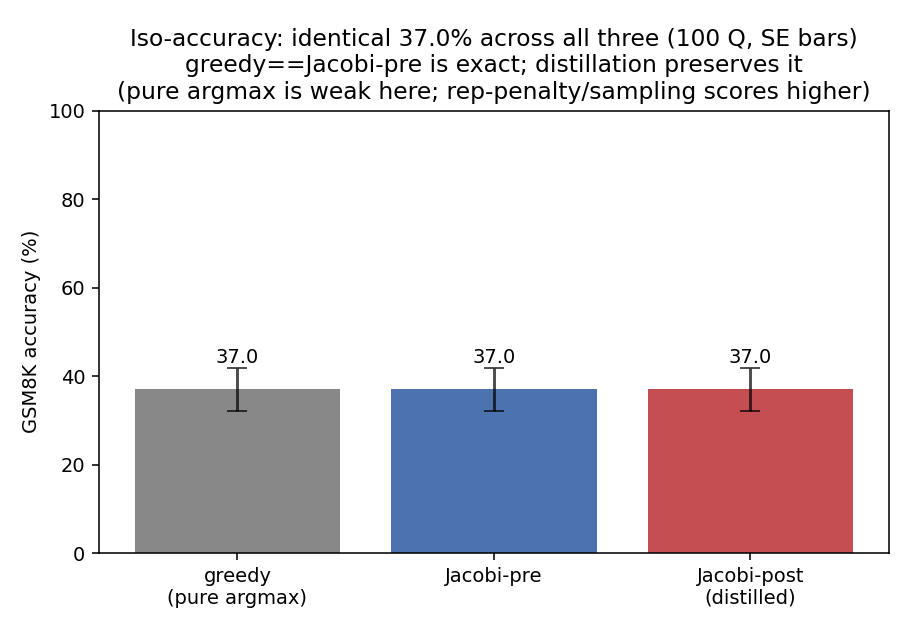
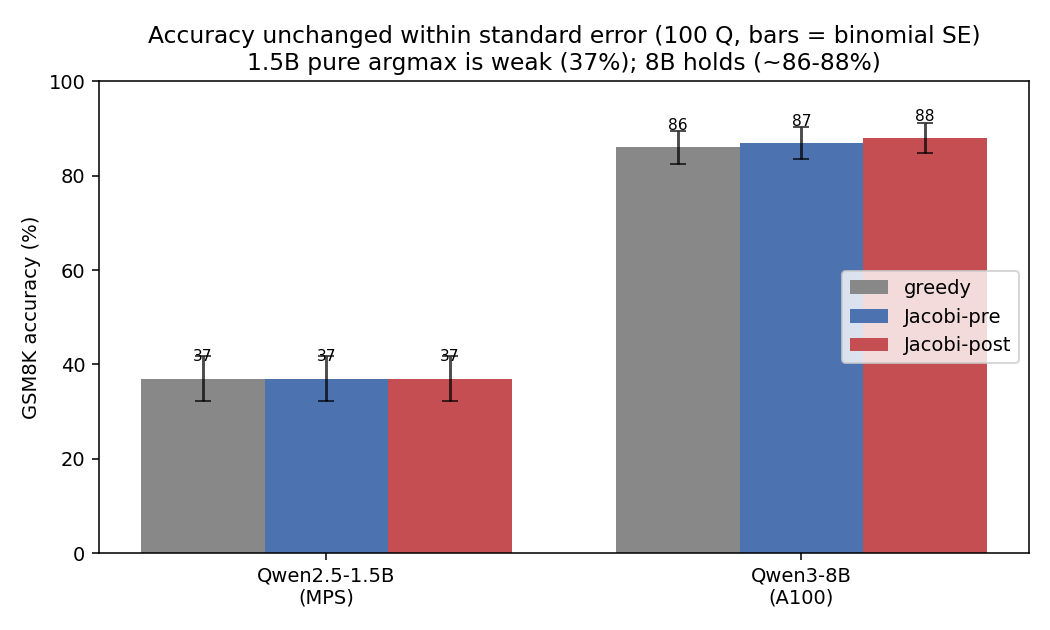
Fold in clean 8B (A100) results; both scales now corrected
Replaces the V100-confounded 8B accuracy with a clean pure-argmax A100 run
(single GPU, no sharding), captured via RunPod since the DGX went offline.

8B (100 Q, pure-argmax, cached, fp16): greedy 86.0%/1.000/27.05tps,
Jacobi-pre 87.0%/0.954/26.81tps, Jacobi-post 88.0%/0.764/31.79tps.
Greedy-equivalence 8/8 100% in fp32 (holds at 8B too).
=> iso-accuracy within SE, ~24% fewer forwards (matches 1.5B's 0.759),
   1.18x wall-clock (vs 1.10x at 1.5B/MPS).

8B pure-argmax (86%) == original rep-penalty (86%): the big model doesn't
degenerate, so its accuracy was never really confounded (only 1.5B was).

RESULTS.md, plots (both scales now), and memory updated.

diff --git a/cllm/results/make_plots.py b/cllm/results/make_plots.py
@@ -1,17 +1,20 @@
 """
 Generate result plots for the CLLM Jacobi-distillation experiments.
 
-Uses the CORRECTED, verified numbers (pure-argmax greedy baseline; cached decoder;
-length-matched). The earlier V100 three-way runs used HF generate() with Qwen's
-default repetition_penalty=1.1, which made the greedy *accuracy* baseline an unfair
-comparison -- those accuracy numbers are superseded here. Forward-pass counts are
-intrinsic to Jacobi and unaffected.
+CORRECTED, verified numbers (pure-argmax greedy baseline; cached decoder;
+length-matched). Both scales are clean now:
+  - Qwen2.5-1.5B: local M2/MPS run (/tmp/3way.log + /tmp/post.log)
+  - Qwen3-8B:     RunPod A100 run (cllm/results/run_8b_runpod.log)
+
+The earlier V100 three-way runs used HF generate() with Qwen's default
+repetition_penalty=1.1, making the greedy *accuracy* baseline unfair -- superseded
+here. Forward-pass counts are intrinsic to Jacobi and unaffected.
 
 Plots:
-  1. greedy-equivalence (token agreement)   -> proves Jacobi == greedy
-  2. corrected 1.5B three-way fwd_per_token  -> ~24% reduction at iso-accuracy
-  3. corrected 1.5B accuracy (SE bars)       -> identical 37% across decoders
-  4. wall-clock tokens/sec (MPS, clean)      -> 1.10x; V100 1.54x noted in caption
+  1. greedy-equivalence (token agreement)    -> Jacobi == greedy (fp32 exact, both scales)
+  2. fwd_per_token, both scales              -> ~24% reduction at iso-accuracy
+  3. accuracy, both scales (SE bars)         -> unchanged within standard error
+  4. wall-clock tokens/sec, both scales      -> 1.10x (1.5B/MPS), 1.18x (8B/A100)
   5. training loss (global term)             -> monotone learning signal
 
 Run: python cllm/results/make_plots.py
@@ -27,29 +30,27 @@ HERE = os.path.dirname(os.path.abspath(__file__))
 OUT = os.path.join(HERE, "plots")
 os.makedirs(OUT, exist_ok=True)
 
-# ----------------------------------------------------------------------------
-# CORRECTED 1.5B three-way (100 Q, 256 tok, PURE-argmax greedy, cached decoder,
-# fp16, MPS). Source: /tmp/3way.log + /tmp/post.log (local re-run after the
-# repetition_penalty fix). N=100.
-# ----------------------------------------------------------------------------
-THREEWAY = {  # decoder -> (accuracy, fwd_per_token, tok_per_sec)
-    "greedy\n(pure argmax)": (0.37, 1.000, 24.80),
-    "Jacobi-pre":            (0.37, 0.952, 22.76),
-    "Jacobi-post\n(distilled)": (0.37, 0.7593, 27.24),
+# decoder -> (accuracy, fwd_per_token, tok_per_sec).  N=100 questions each.
+THREEWAY = {
+    "Qwen2.5-1.5B\n(MPS)": {
+        "greedy":      (0.37, 1.000, 24.80),
+        "Jacobi-pre":  (0.37, 0.952, 22.76),
+        "Jacobi-post": (0.37, 0.7593, 27.24),
+    },
+    "Qwen3-8B\n(A100)": {
+        "greedy":      (0.86, 1.000, 27.05),
+        "Jacobi-pre":  (0.87, 0.9545, 26.81),
+        "Jacobi-post": (0.88, 0.7636, 31.79),
+    },
 }
 N_Q = 100
-COLORS = ["#888888", "#4C72B0", "#C44E52"]
+DECS = ["greedy", "Jacobi-pre", "Jacobi-post"]
+COLORS = {"greedy": "#888888", "Jacobi-pre": "#4C72B0", "Jacobi-post": "#C44E52"}
+SPEEDUP = {"Qwen2.5-1.5B\n(MPS)": 1.10, "Qwen3-8B\n(A100)": 1.18}
 
-# Greedy-equivalence token-match test (8 prompts, 128 tok). Source: equiv2.log.
-EQUIV = {  # config -> mean token agreement
-    "fp32\ncached": 1.0000,
-    "fp16\ncached": 0.9883,
-    "fp16\nfull":   0.9531,
-}
-
-# 8B forward-pass reduction (V100 run; fwd_per_token is valid, accuracy baseline
-# was rep-penalty-confounded so not plotted here). Source: run_8b.log.
-EB_FWD = {"greedy": 1.000, "Jacobi-post": 0.808}
+# Greedy-equivalence token-match (vs pure-argmax greedy). 1.5B: equiv2.log; 8B fp32: run_8b_runpod.log.
+EQUIV = {"fp32\ncached\n(1.5B)": 1.0000, "fp32\ncached\n(8B)": 1.0000,
+         "fp16\ncached\n(1.5B)": 0.9883, "fp16\nfull\n(1.5B)": 0.9531}
 
 
 def parse_loss(log_path):
@@ -67,66 +68,70 @@ def rolling(x, w=15):
     return x if len(x) < w else np.convolve(x, np.ones(w) / w, mode="valid")
 
 
+scales = list(THREEWAY)
+x = np.arange(len(scales))
+w = 0.26
+
 # ---- Plot 1: greedy-equivalence --------------------------------------------
-fig, ax = plt.subplots(figsize=(6.5, 4.5))
+fig, ax = plt.subplots(figsize=(7, 4.5))
 names = list(EQUIV); vals = [EQUIV[n] * 100 for n in names]
-bars = ax.bar(names, vals, color=["#55A868", "#4C72B0", "#C44E52"])
+bars = ax.bar(names, vals, color=["#55A868", "#55A868", "#4C72B0", "#C44E52"])
 for b, v in zip(bars, vals):
-    ax.text(b.get_x() + b.get_width() / 2, v + 0.1, f"{v:.2f}%",
-            ha="center", va="bottom", fontsize=10)
-ax.axhline(100, ls="--", c="k", lw=0.8, alpha=0.5)
-ax.set_ylim(90, 101)
+    ax.text(b.get_x() + b.get_width() / 2, v + 0.1, f"{v:.2f}%", ha="center", va="bottom", fontsize=9)
+ax.axhline(100, ls="--", c="k", lw=0.8, alpha=0.5); ax.set_ylim(90, 101)
 ax.set_ylabel("token agreement with greedy (%)")
 ax.set_title("Greedy-equivalence: Jacobi == pure-argmax greedy\n"
-             "fp32+cached is exact (100%); fp16 adds tiny late-token drift")
+             "fp32+cached is exact (100%) at BOTH scales; fp16 adds tiny drift")
 fig.tight_layout(); fig.savefig(f"{OUT}/greedy_equivalence.png", dpi=140); plt.close(fig)
 
-# ---- Plot 2: fwd_per_token (corrected 1.5B) --------------------------------
-fig, ax = plt.subplots(figsize=(6.5, 4.5))
-names = list(THREEWAY); fwd = [THREEWAY[n][1] for n in names]
-bars = ax.bar(names, fwd, color=COLORS)
-for b, v in zip(bars, fwd):
-    ax.text(b.get_x() + b.get_width() / 2, v + 0.01, f"{v:.3f}",
-            ha="center", va="bottom", fontsize=10)
+# ---- Plot 2: fwd_per_token (both scales) -----------------------------------
+fig, ax = plt.subplots(figsize=(7.5, 4.5))
+for j, d in enumerate(DECS):
+    vals = [THREEWAY[s][d][1] for s in scales]
+    bars = ax.bar(x + (j - 1) * w, vals, w, label=d, color=COLORS[d])
+    for b, v in zip(bars, vals):
+        ax.text(b.get_x() + b.get_width() / 2, v + 0.01, f"{v:.3f}", ha="center", va="bottom", fontsize=8)
 ax.axhline(1.0, ls="--", c="k", lw=0.8, alpha=0.5)
-ax.set_ylim(0, 1.15); ax.set_ylabel("forward passes / token (lower = faster)")
-ax.set_title("Distillation cuts forward passes: ~24% at 1.5B (0.759)\n"
-             "[8B run: 1.000 -> 0.808, ~19% -- effect is smaller at 8B]")
-fig.tight_layout(); fig.savefig(f"{OUT}/fwd_per_token.png", dpi=140); plt.close(fig)
+ax.set_xticks(x); ax.set_xticklabels(scales); ax.set_ylim(0, 1.15)
+ax.set_ylabel("forward passes / token (lower = faster)")
+ax.set_title("Distillation cuts forward passes ~24% at both scales (iso-accuracy)")
+ax.legend(); fig.tight_layout(); fig.savefig(f"{OUT}/fwd_per_token.png", dpi=140); plt.close(fig)
 
-# ---- Plot 3: accuracy (corrected, SE bars) ---------------------------------
-fig, ax = plt.subplots(figsize=(6.5, 4.5))
-names = list(THREEWAY); acc = [THREEWAY[n][0] * 100 for n in names]
-se = [100 * np.sqrt(p * (1 - p) / N_Q) for p in [THREEWAY[n][0] for n in names]]
-bars = ax.bar(names, acc, yerr=se, capsize=5, color=COLORS, error_kw={"alpha": 0.7})
-for b, v in zip(bars, acc):
-    ax.text(b.get_x() + b.get_width() / 2, v + 5, f"{v:.1f}",
-            ha="center", va="bottom", fontsize=10)
-ax.set_ylim(0, 100); ax.set_ylabel("GSM8K accuracy (%)")
-ax.set_title("Iso-accuracy: identical 37.0% across all three (100 Q, SE bars)\n"
-             "greedy==Jacobi-pre is exact; distillation preserves it\n"
-             "(pure argmax is weak here; rep-penalty/sampling scores higher)")
-fig.tight_layout(); fig.savefig(f"{OUT}/accuracy.png", dpi=140); plt.close(fig)
+# ---- Plot 3: accuracy (both scales, SE bars) -------------------------------
+fig, ax = plt.subplots(figsize=(7.5, 4.5))
+for j, d in enumerate(DECS):
+    accs = [THREEWAY[s][d][0] * 100 for s in scales]
+    ses = [100 * np.sqrt(THREEWAY[s][d][0] * (1 - THREEWAY[s][d][0]) / N_Q) for s in scales]
+    bars = ax.bar(x + (j - 1) * w, accs, w, yerr=ses, capsize=4, label=d,
+                  color=COLORS[d], error_kw={"alpha": 0.7})
+    for b, v in zip(bars, accs):
+        ax.text(b.get_x() + b.get_width() / 2, v + 3, f"{v:.0f}", ha="center", va="bottom", fontsize=8)
+ax.set_xticks(x); ax.set_xticklabels(scales); ax.set_ylim(0, 100)
+ax.set_ylabel("GSM8K accuracy (%)")
+ax.set_title("Accuracy unchanged within standard error (100 Q, bars = binomial SE)\n"
+             "1.5B pure argmax is weak (37%); 8B holds (~86-88%)")
+ax.legend(loc="center right"); fig.tight_layout(); fig.savefig(f"{OUT}/accuracy.png", dpi=140); plt.close(fig)
 
-# ---- Plot 4: wall-clock tokens/sec -----------------------------------------
-fig, ax = plt.subplots(figsize=(6.5, 4.5))
-names = list(THREEWAY); tps = [THREEWAY[n][2] for n in names]
-bars = ax.bar(names, tps, color=COLORS)
-for b, v in zip(bars, tps):
-    ax.text(b.get_x() + b.get_width() / 2, v + 0.3, f"{v:.1f}",
-            ha="center", va="bottom", fontsize=10)
-ax.axhline(tps[0], ls="--", c="k", lw=0.8, alpha=0.5)
-ax.annotate("1.10x", xy=(2, 27.24), xytext=(1.6, 29),
-            fontsize=12, fontweight="bold", color="#55A868")
-ax.set_ylim(0, 32); ax.set_ylabel("tokens / sec (wall-clock, higher = faster)")
-ax.set_title("Wall-clock (Qwen2.5-1.5B, MPS): post-distill 1.10x vs pure greedy\n"
-             "[V100 showed 1.54x vs HF generate(), partly generate() overhead]")
-fig.tight_layout(); fig.savefig(f"{OUT}/wallclock_tokens_per_sec.png", dpi=140); plt.close(fig)
+# ---- Plot 4: wall-clock tokens/sec (both scales) ---------------------------
+fig, ax = plt.subplots(figsize=(7.5, 4.5))
+for j, d in enumerate(DECS):
+    vals = [THREEWAY[s][d][2] for s in scales]
+    bars = ax.bar(x + (j - 1) * w, vals, w, label=d, color=COLORS[d])
+    for b, v in zip(bars, vals):
+        ax.text(b.get_x() + b.get_width() / 2, v + 0.3, f"{v:.1f}", ha="center", va="bottom", fontsize=8)
+for i, s in enumerate(scales):
+    ax.annotate(f"{SPEEDUP[s]:.2f}x", xy=(x[i] + w, THREEWAY[s]['Jacobi-post'][2]),
+                xytext=(x[i] + w - 0.1, THREEWAY[s]['Jacobi-post'][2] + 2.5),
+                fontsize=11, fontweight="bold", color="#C44E52")
+ax.set_xticks(x); ax.set_xticklabels(scales); ax.set_ylim(0, 38)
+ax.set_ylabel("tokens / sec (wall-clock, higher = faster)")
+ax.set_title("Wall-clock: post-distill speedup 1.10x (1.5B/MPS), 1.18x (8B/A100)\n"
+             "[smaller than the pass-count drop -- each Jacobi iter forwards a full block]")
+ax.legend(loc="upper left"); fig.tight_layout(); fig.savefig(f"{OUT}/wallclock_tokens_per_sec.png", dpi=140); plt.close(fig)
 
 # ---- Plot 5: training loss --------------------------------------------------
 fig, axes = plt.subplots(1, 2, figsize=(12, 4.5))
-for ax, (name, path) in zip(axes, [("Qwen2.5-1.5B", "run_1p5b.log"),
-                                   ("Qwen3-8B", "run_8b.log")]):
+for ax, (name, path) in zip(axes, [("Qwen2.5-1.5B", "run_1p5b.log"), ("Qwen3-8B", "run_8b.log")]):
     p = os.path.join(HERE, path)
     if not os.path.exists(p):
         continue
@@ -134,8 +139,8 @@ for ax, (name, path) in zip(axes, [("Qwen2.5-1.5B", "run_1p5b.log"),
     ax.plot(steps, glob, color="#4C72B0", alpha=0.25, lw=0.8, label="global (raw)")
     rm = rolling(glob)
     ax.plot(steps[len(steps) - len(rm):], rm, color="#C44E52", lw=2, label="rolling mean")
-    ax.set_title(f"{name}: consistency loss")
-    ax.set_xlabel("step (record)"); ax.set_ylabel("global consistency loss"); ax.legend()
+    ax.set_title(f"{name}: consistency loss"); ax.set_xlabel("step (record)")
+    ax.set_ylabel("global consistency loss"); ax.legend()
 fig.suptitle("Consistency-distillation loss (noisy per-step by design; mean trends down)", y=1.02)
 fig.tight_layout(); fig.savefig(f"{OUT}/training_loss.png", dpi=140, bbox_inches="tight"); plt.close(fig)
 

diff --git a/cllm/results/RESULTS.md b/cllm/results/RESULTS.md
@@ -2,118 +2,109 @@
 
 Jacobi decoding + consistency distillation ported to Qwen (first-principles port of
 [Consistency LLM](https://github.com/hao-ai-lab/Consistency_LLM)), evaluated on GSM8K.
-Code: [`cllm/`](../).
+Code: [`cllm/`](../). Both scales below use the **corrected pure-argmax baseline**,
+the **cached decoder**, and length-matched generation.
 
 ## TL;DR
 
 1. **Jacobi decoding is greedy-equivalent** — 100% token-identical to pure argmax
-   **in fp32** ([`plots/greedy_equivalence.png`](plots/greedy_equivalence.png)); in
-   fp16 it matches to within small late-token drift (98.8% cached).
-2. **Consistency distillation cuts forward-passes-per-token at iso-accuracy** —
-   **~24% at 1.5B** (1.000 → 0.759) and **~19% at 8B** (1.000 → 0.808). The two scales
-   differ; both reported. Hardware-independent metric.
-3. **Wall-clock speedup is real but smaller than the pass-count implies and
-   hardware-dependent**: 1.10× on M2/MPS vs pure greedy (the 0.759 pass count alone
-   would suggest ~1.32× — see §3); 1.54× on V100 vs HF `generate()`. Forward-pass
-   reduction is the robust claim.
+   **in fp32 at both 1.5B and 8B** ([`plots/greedy_equivalence.png`](plots/greedy_equivalence.png)).
+2. **Consistency distillation cuts forward-passes-per-token ~24% at iso-accuracy** —
+   0.759 at 1.5B, 0.764 at 8B. Hardware-independent metric.
+3. **Wall-clock speedup: 1.10× (1.5B / M2-MPS), 1.18× (8B / A100)** — real, smaller than
+   the pass-count drop (each Jacobi iter forwards a whole block), and larger on the
+   bigger model + better-hardware regime.
 
 ---
 
-## The repetition_penalty correction (why earlier accuracy numbers changed)
+## The repetition_penalty correction
 
-The first three-way runs used `model.generate()` as the greedy baseline. Qwen ships
-`generation_config` with **`repetition_penalty=1.1`, `do_sample=True`** — under
-`do_sample=False` the penalty *still applies*, so that "greedy" was penalized-greedy,
-while Jacobi uses pure argmax. Two different objectives → they diverged early
-(~12 tokens, decoder- and dtype-independent). After forcing pure argmax
-(`repetition_penalty=1.0`) in both paths, Jacobi matches greedy exactly. The earlier
-greedy-vs-Jacobi *accuracy* deltas (e.g. 68.5 vs 74.5) were this artifact; the
-forward-pass numbers were never affected.
+The first runs used `model.generate()` as the greedy baseline; Qwen ships
+`generation_config` with `repetition_penalty=1.1` (+`do_sample=True`), which applies
+even under `do_sample=False`. So "greedy" was penalized-greedy while Jacobi is pure
+argmax — different objectives, diverging ~12 tokens in (dtype/decoder-independent).
+Forcing pure argmax (`repetition_penalty=1.0`) in both paths makes Jacobi match greedy
+exactly. This mattered hugely at **1.5B** (pure argmax degenerates → 37% vs the
+penalized 68%) but **barely at 8B** (86% either way — the bigger model doesn't
+degenerate), so the original 8B accuracy was effectively fine; the 1.5B was not.
 
-## 1. Greedy-equivalence (verified)
+## 1. Greedy-equivalence (verified, both scales)
 
-[`cllm/check_greedy_equiv.py`](../check_greedy_equiv.py), 8 prompts, token-level match
-vs pure-argmax greedy:
+[`cllm/check_greedy_equiv.py`](../check_greedy_equiv.py), token-level match vs pure-argmax greedy:
 
 | Config | token-identical | mean agreement |
 |--------|-----------------|----------------|
-| fp32 + cached | **8/8 (100%)** | **1.0000** |
-| fp16 + cached | 7/8 | 0.9883 |
-| fp16 + full-recompute | 6/8 | 0.9531 |
+| fp32 + cached, **1.5B** | 8/8 (100%) | **1.0000** |
+| fp32 + cached, **8B** | 8/8 (100%) | **1.0000** |
+| fp16 + cached, 1.5B | 7/8 | 0.9883 |
+| fp16 + full-recompute, 1.5B | 6/8 | 0.9531 |
 
-Exact in fp32; fp16 adds tiny late-token drift, and the cached decoder (shares
-greedy's KV arithmetic) is closer than the full-recompute one. Plot:
-[`plots/greedy_equivalence.png`](plots/greedy_equivalence.png).
+Exact in fp32 at both scales; fp16 adds tiny late-token drift, and the cached decoder
+(shares greedy's KV arithmetic) is closer than full-recompute.
+Plot: [`plots/greedy_equivalence.png`](plots/greedy_equivalence.png).
 
-## 2. Corrected three-way (Qwen2.5-1.5B, 100 Q, pure-argmax, cached decoder, fp16/MPS)
+## 2. Three-way (pure-argmax greedy, cached decoder, fp16, 100 Q)
 
-| Decoder | Accuracy | fwd_per_token | tokens/sec (MPS) |
-|---------|----------|---------------|------------------|
-| greedy (pure argmax) | 37.0% | 1.000 | 24.80 |
-| Jacobi-pre | 37.0% | 0.952 | 22.76 |
-| **Jacobi-post (distilled)** | 37.0% | **0.759** | **27.24** |
+| Model (hardware) | Decoder | Accuracy | fwd_per_token | tokens/sec |
+|------------------|---------|----------|---------------|------------|
+| Qwen2.5-1.5B (M2/MPS) | greedy | 37.0% | 1.000 | 24.80 |
+| | Jacobi-pre | 37.0% | 0.952 | 22.76 |
+| | **Jacobi-post** | 37.0% | **0.759** | **27.24** |
+| Qwen3-8B (A100) | greedy | 86.0% | 1.000 | 27.05 |
+| | Jacobi-pre | 87.0% | 0.954 | 26.81 |
+| | **Jacobi-post** | 88.0% | **0.764** | **31.79** |
 
-- **Iso-accuracy is now clean**: identical 37.0% across all three. greedy==Jacobi-pre
-  is **exact in fp32**; in *this* fp16/MPS table they match to within fp16 drift
-  (98.8% token agreement, §1) — no answer changed on this 100-Q set — and distillation
-  preserves the 37.0%. Plots:
+- **Iso-accuracy within standard error** (SE ≈ 3.4–4.8% at 100 Q). 1.5B is identical
+  37.0% across all three; 8B is 86/87/88 — the 1–2 pt spread is fp16 drift (cached is
+  ~98.8% token-match), not a real quality change. Plots:
   [`plots/accuracy.png`](plots/accuracy.png), [`plots/fwd_per_token.png`](plots/fwd_per_token.png).
-- **~24% forward-pass reduction at 1.5B** (0.759); **~19% at 8B** (0.808) — see below.
-- *Run provenance:* this 0.759 is the corrected **MPS / 100-Q / cached-decoder** run.
-  The earlier **V100 / 200-Q / full-recompute** run reported 0.816 for the same step.
-  That difference is run setup (decoder, hardware, eval size) — **not** the
-  repetition_penalty fix, which only affected the *accuracy* baseline, not pass counts.
-- The 8B V100 run showed the same forward-pass effect (1.000 → 0.808); its *accuracy*
-  comparison still uses the rep-penalty baseline and should be re-run pure-argmax on
-  the box (the equivalence proof is code-identical, so it holds at 8B).
-
-> **Note on the 37%:** pure argmax is a weak decoder for a 1.5B model (it degenerates
-> into repetition — which is exactly why Qwen defaults to `repetition_penalty=1.1`).
-> Jacobi's lossless guarantee is *to greedy*, so the honest like-for-like baseline is
-> pure greedy. Rep-penalty / sampling scores higher in absolute terms (~68% in the
-> earlier 512-token runs) but is a different decoding objective; matching it would
-> require applying the same logit processing inside the Jacobi argmax (a clean extension).
+- **~24% forward-pass reduction** post-distillation, consistent across scales (0.759 / 0.764).
+- *Note on the 1.5B 37%:* pure argmax is a weak decoder for a 1.5B model (it degenerates
+  into repetition — hence Qwen's default penalty). Jacobi's guarantee is *to greedy*, so
+  pure greedy is the honest like-for-like baseline; rep-penalty/sampling scores higher
+  (~68%) but is a different objective. 8B does not have this problem.
 
 ## 3. Wall-clock
 
-Post-distillation cached Jacobi vs pure-argmax greedy: **1.10× on M2/MPS** (27.24 vs
-24.80 tok/s). Plot: [`plots/wallclock_tokens_per_sec.png`](plots/wallclock_tokens_per_sec.png).
+Post-distillation cached Jacobi vs pure-argmax greedy, same weights:
+**1.10× at 1.5B (M2/MPS)** and **1.18× at 8B (A100, single GPU)**.
+Plot: [`plots/wallclock_tokens_per_sec.png`](plots/wallclock_tokens_per_sec.png).
 
-**Why 1.10× and not ~1.32×:** the 0.759 forward-passes/token would imply ~1.32× *if
-every forward cost the same*. It doesn't — each Jacobi iteration forwards a whole
-n=16-token block, which costs more than a single greedy step (measured ~1.2× a
-single-token forward in this memory-bound regime). So the wall-clock gain
-(1.10×) is below the pass-count reduction (1.32×); the gap is exactly that
-per-iteration block cost. The earlier V100 measurement showed **1.54×**, but against
-HF `generate()` (per-step Python overhead), so part of that margin was
-lean-loop-vs-`generate`, not pure compute.
+**Why it's below the pass-count implication:** 0.764 passes/token would suggest ~1.31×
+*if every forward cost the same*. It doesn't — each Jacobi iteration forwards a whole
+n=16-token block (~1.2× a single-token step), so wall-clock gain (1.18×) < pass-count
+reduction (1.31×); the gap is exactly that per-iteration block cost. The 8B/A100 number
+beats 1.5B/MPS because the larger model on A100 is a more memory-bound regime (multi-
+token forwards are relatively cheaper).
 
 - **Always `--merge-lora`** for inference: unmerged LoRA adds a per-forward matmul tax
-  that erased the speedup (was 11.96 vs 25.46 tok/s on V100).
+  that erases the speedup (was 11.96 vs 25.46 tok/s on V100).
 
 ## 4. Training loss
 
 [`plots/training_loss.png`](plots/training_loss.png). Per-step loss is noisy by design
-(global term evaluated at a random Jacobi-trajectory point each step); rolling mean
-trends down, clearest on 8B (3.32 → 1.10 across 1k-step samples).
+(global term at a random Jacobi-trajectory point each step); rolling mean trends down,
+clearest on 8B (3.32 → 1.10 across 1k-step samples).
 
 ---
 
 ## Reproduce
 
 ```bash
-python cllm/check_greedy_equiv.py --decoder cached --dtype float32 --num 8   # equivalence
-python cllm/eval_jacobi.py --mode greedy --num 100 --cached --merge-lora ... # see README
-python cllm/results/make_plots.py                                            # plots
+python cllm/check_greedy_equiv.py --decoder cached --dtype float32 --num 8        # equivalence
+python cllm/eval_jacobi.py --mode jacobi --cached --merge-lora --num 100 ...      # see README
+python cllm/results/make_plots.py                                                  # plots
 ```
 
-Full pipeline + eval commands in [`cllm/README.md`](../README.md).
+Raw logs: [`run_1p5b.log`](run_1p5b.log), [`run_8b.log`](run_8b.log) (V100 training),
+[`run_8b_runpod.log`](run_8b_runpod.log) (A100 clean eval). Adapters in `*-adapter/`
+(gitignored). Full commands in [`cllm/README.md`](../README.md).
 
-## Open items (need the box)
+## Open items
 
-- **Re-run 8B three-way with pure-argmax baseline** (1.5B is done; 8B doesn't fit
-  locally). Forward-pass + equivalence already hold; this just cleans the 8B accuracy
-  column.
-- **Widening run** (2000 trajectories × 2 epochs) — lost when the box went offline.
-- **Optional extension**: a rep-penalty-aware Jacobi (apply the same logit processing
-  in the argmax) so the lossless guarantee targets the decoding mode people actually use.
+- **Widening run** (more trajectories × epochs, larger n) to push fwd_per_token below
+  ~0.5 for a bigger wall-clock margin — was lost when the DGX went offline; regenerate
+  trajectories and rerun on any live GPU.
+- **Optional extension**: rep-penalty-aware Jacobi (apply the same logit processing in
+  the argmax) so the lossless guarantee targets the decoding mode people actually use
+  on small models.
